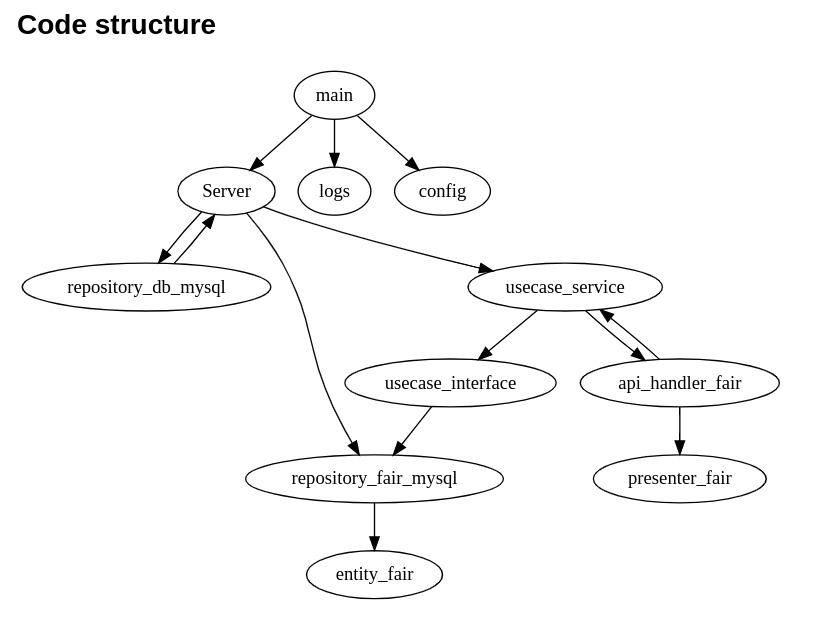
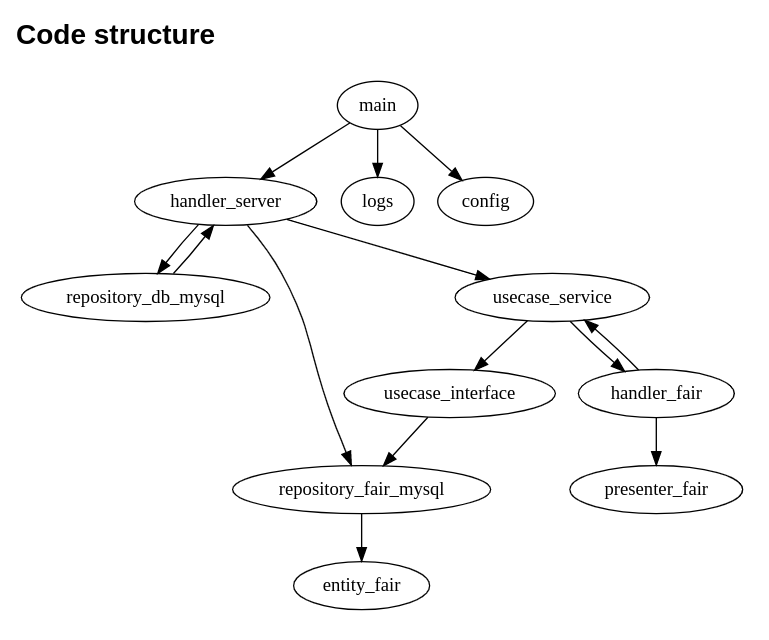
ajustado nome dos pacotes no Diagrama

diff --git a/README.md b/README.md
@@ -18,16 +18,16 @@ It also has a Docker folder with a docker-composer file that can be used to asse
 <!-- ``` dot {engine="dot"}
 digraph CODE {
  
-                    main->Server
+                    main->handler_server
                     main->logs
                     main->config
 
-    Server->repository_db_mysql
-    repository_db_mysql->Server
+    handler_server->repository_db_mysql
+    repository_db_mysql->handler_server
 
-    Server->repository_fair_mysql->entity_fair
-    Server->usecase_service->api_handler_fair->presenter_fair
-           api_handler_fair->usecase_service
+    handler_server->repository_fair_mysql->entity_fair
+    handler_server->usecase_service->handler_fair->presenter_fair
+           handler_fair->usecase_service
     usecase_service->usecase_interface->repository_fair_mysql
 }
 ``` -->
